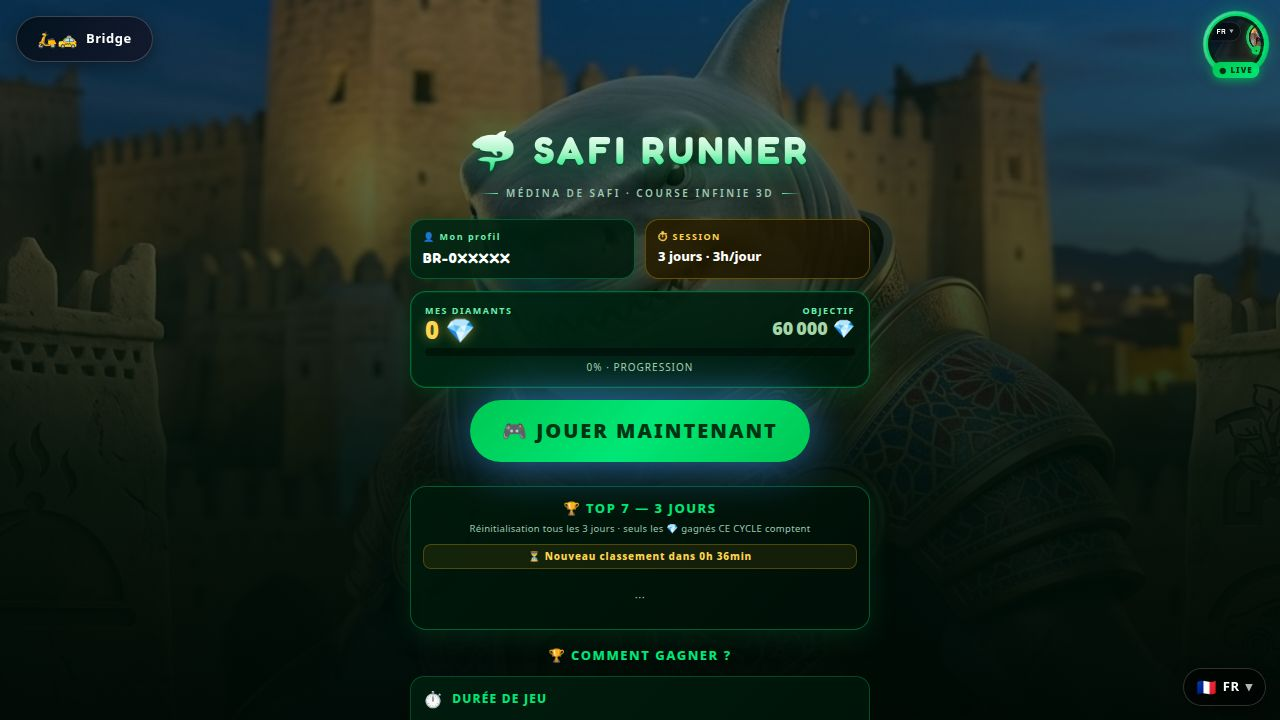
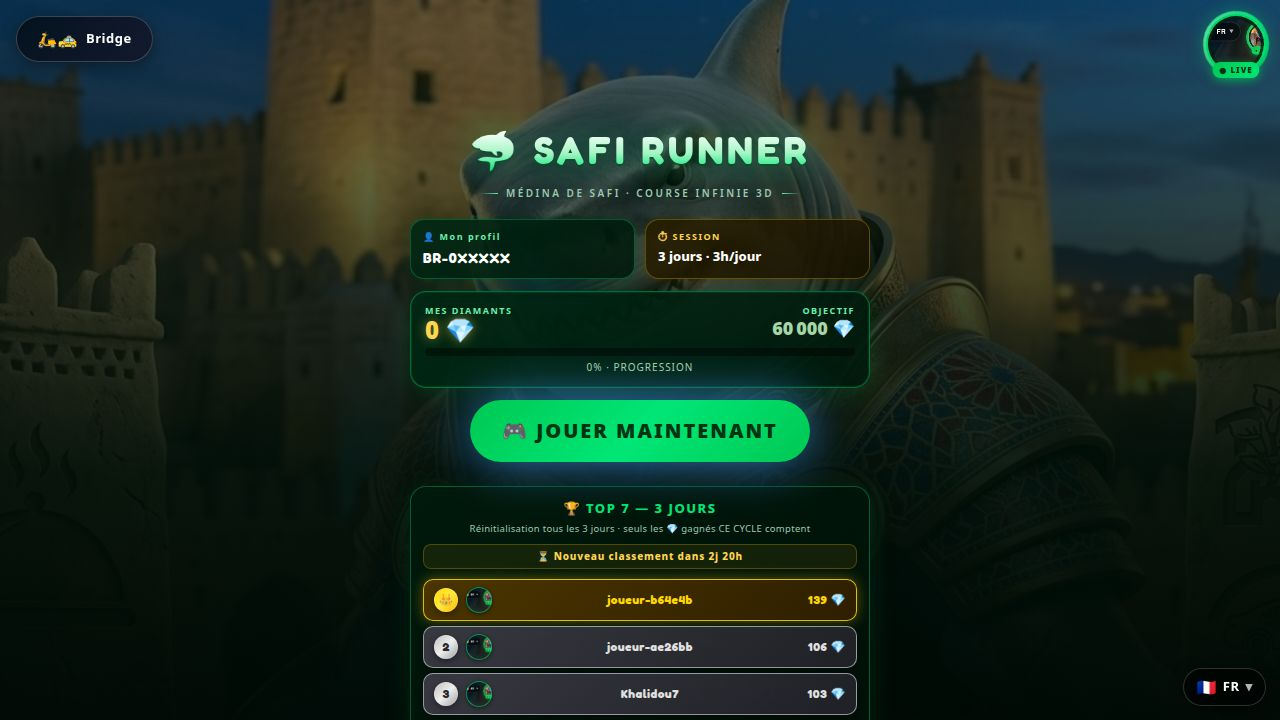
Add error handling and optimize 3D rendering for stability
Introduce a CanvasErrorBoundary component in Game.tsx to catch and display WebGL/R3F errors gracefully, and simplify the Champignon obstacle model in Obstacles.tsx for improved performance and compatibility. Also adjusts device pixel ratio and WebGL context creation settings to prevent crashes on devices with software rendering.

Replit-Commit-Author: Agent
Replit-Commit-Session-Id: 6561ac08-ca0f-453b-919e-0df1260e3bb4
Replit-Commit-Checkpoint-Type: full_checkpoint
Replit-Commit-Event-Id: 2db16445-f72d-4144-bfb4-ad6c785d57f4
Replit-Commit-Screenshot-Url: https://storage.googleapis.com/screenshot-production-us-central1/de74e39f-30c2-4a4e-81c6-35b38d5328e6/6561ac08-ca0f-453b-919e-0df1260e3bb4/2QFZL6C
Replit-Helium-Checkpoint-Created: true

Changed region(s): [[0.3125, 0.7639, 0.6875, 1.0]]

diff --git a/artifacts/3d-game/src/game/components/Obstacles.tsx b/artifacts/3d-game/src/game/components/Obstacles.tsx
@@ -7,43 +7,29 @@ const LANE_X = [-2, 0, 2];
 
 /* ─────────────────────────────────────────────────────────────
    CHAMPIGNON GÉANT — obstacle principal
-   Chapeau rouge à pois blancs, pied crème, spores dorées
+   Chapeau rouge à pois blancs, pied crème
    ───────────────────────────────────────────────────────────── */
 function Champignon({ x, z }: { x: number; z: number }) {
-  const capRef = useRef<THREE.Mesh>(null);
+  const capRef  = useRef<THREE.Mesh>(null);
   const glowRef = useRef<THREE.Mesh>(null);
-  const spore1Ref = useRef<THREE.Mesh>(null);
-  const spore2Ref = useRef<THREE.Mesh>(null);
 
   useFrame(() => {
     const t = Date.now() * 0.002;
     if (capRef.current) {
-      capRef.current.position.y = 1.1 + Math.sin(t * 1.2) * 0.04;
+      capRef.current.position.y = 1.35 + Math.sin(t * 1.2) * 0.04;
     }
     if (glowRef.current) {
       const mat = glowRef.current.material as THREE.MeshBasicMaterial;
-      mat.opacity = 0.12 + Math.sin(t * 0.8) * 0.06;
-    }
-    if (spore1Ref.current) {
-      spore1Ref.current.position.y = 1.9 + Math.sin(t + 0.5) * 0.15;
-      spore1Ref.current.position.x = x + Math.cos(t * 0.9) * 0.18;
-      const mat = spore1Ref.current.material as THREE.MeshBasicMaterial;
-      mat.opacity = 0.5 + Math.sin(t * 1.5) * 0.3;
-    }
-    if (spore2Ref.current) {
-      spore2Ref.current.position.y = 2.05 + Math.sin(t * 1.3 + 1.2) * 0.12;
-      spore2Ref.current.position.x = x + Math.cos(t * 1.1 + 2) * 0.22;
-      const mat = spore2Ref.current.material as THREE.MeshBasicMaterial;
-      mat.opacity = 0.4 + Math.sin(t * 1.1) * 0.25;
+      mat.opacity = 0.14 + Math.sin(t * 0.8) * 0.06;
     }
   });
 
   return (
     <group position={[x, 0, z]}>
-      {/* Sol — cercle de mousse verte */}
-      <mesh position={[0, 0.02, 0]} rotation={[-Math.PI / 2, 0, 0]}>
-        <circleGeometry args={[1.1, 20]} />
-        <meshBasicMaterial color="#1e8449" transparent opacity={0.5} blending={THREE.AdditiveBlending} toneMapped={false} />
+      {/* Halo violet magique au sol */}
+      <mesh ref={glowRef} position={[0, 0.03, 0]} rotation={[-Math.PI / 2, 0, 0]}>
+        <planeGeometry args={[2.4, 2.4]} />
+        <meshBasicMaterial color="#9b59b6" transparent opacity={0.14} blending={THREE.AdditiveBlending} toneMapped={false} />
       </mesh>
 
       {/* Pied du champignon — cylindre crème */}
@@ -58,66 +44,48 @@ function Champignon({ x, z }: { x: number; z: number }) {
         <meshBasicMaterial color="#d5c9a1" toneMapped={false} />
       </mesh>
 
-      {/* Chapeau principal — demi-sphère rouge vif */}
-      <mesh ref={capRef} position={[0, 1.1, 0]}>
-        <sphereGeometry args={[0.92, 20, 16, 0, Math.PI * 2, 0, Math.PI / 2]} />
-        <meshBasicMaterial color="#e74c3c" toneMapped={false} side={THREE.DoubleSide} />
+      {/* Chapeau principal — sphère rouge aplatie */}
+      <mesh ref={capRef} position={[0, 1.35, 0]} scale={[1, 0.6, 1]}>
+        <sphereGeometry args={[0.95, 20, 14]} />
+        <meshBasicMaterial color="#e74c3c" toneMapped={false} />
       </mesh>
 
-      {/* Bord inférieur du chapeau (frange) */}
-      <mesh position={[0, 1.1, 0]}>
-        <torusGeometry args={[0.92, 0.06, 8, 22]} />
+      {/* Bord inférieur du chapeau */}
+      <mesh position={[0, 1.08, 0]}>
+        <torusGeometry args={[0.92, 0.07, 8, 22]} />
         <meshBasicMaterial color="#c0392b" toneMapped={false} />
       </mesh>
 
-      {/* Pois blancs sur le chapeau — 7 spots */}
-      <mesh position={[0, 1.92, 0]}>
-        <sphereGeometry args={[0.14, 10, 10]} />
+      {/* Pois blancs sur le chapeau */}
+      <mesh position={[0, 1.85, 0]}>
+        <sphereGeometry args={[0.13, 10, 10]} />
         <meshBasicMaterial color="#fdfefe" toneMapped={false} />
       </mesh>
-      <mesh position={[0.5, 1.75, 0.4]}>
-        <sphereGeometry args={[0.11, 10, 10]} />
+      <mesh position={[0.5, 1.6, 0.35]}>
+        <sphereGeometry args={[0.10, 10, 10]} />
         <meshBasicMaterial color="#fdfefe" toneMapped={false} />
       </mesh>
-      <mesh position={[-0.52, 1.72, 0.32]}>
-        <sphereGeometry args={[0.1, 10, 10]} />
+      <mesh position={[-0.5, 1.58, 0.28]}>
+        <sphereGeometry args={[0.10, 10, 10]} />
         <meshBasicMaterial color="#fdfefe" toneMapped={false} />
       </mesh>
-      <mesh position={[0.42, 1.73, -0.45]}>
-        <sphereGeometry args={[0.11, 10, 10]} />
+      <mesh position={[0.4, 1.58, -0.42]}>
+        <sphereGeometry args={[0.10, 10, 10]} />
         <meshBasicMaterial color="#fdfefe" toneMapped={false} />
       </mesh>
-      <mesh position={[-0.44, 1.70, -0.42]}>
-        <sphereGeometry args={[0.1, 10, 10]} />
-        <meshBasicMaterial color="#fdfefe" toneMapped={false} />
-      </mesh>
-      <mesh position={[0.08, 1.59, 0.82]}>
+      <mesh position={[-0.42, 1.56, -0.38]}>
         <sphereGeometry args={[0.09, 10, 10]} />
         <meshBasicMaterial color="#fdfefe" toneMapped={false} />
       </mesh>
-      <mesh position={[-0.1, 1.58, -0.84]}>
+      <mesh position={[0.06, 1.42, 0.88]}>
         <sphereGeometry args={[0.09, 10, 10]} />
         <meshBasicMaterial color="#fdfefe" toneMapped={false} />
       </mesh>
 
-      {/* Spores flottantes dorées */}
-      <mesh ref={spore1Ref} position={[x + 0.18, 1.9, z]}>
-        <sphereGeometry args={[0.055, 7, 7]} />
-        <meshBasicMaterial color="#f9e79f" transparent opacity={0.7} blending={THREE.AdditiveBlending} toneMapped={false} />
-      </mesh>
-      <mesh ref={spore2Ref} position={[x - 0.22, 2.05, z]}>
-        <sphereGeometry args={[0.045, 7, 7]} />
-        <meshBasicMaterial color="#f7dc6f" transparent opacity={0.55} blending={THREE.AdditiveBlending} toneMapped={false} />
-      </mesh>
-      <mesh position={[0.3, 1.65, 0.1]}>
-        <sphereGeometry args={[0.035, 6, 6]} />
-        <meshBasicMaterial color="#f9e79f" transparent opacity={0.4} blending={THREE.AdditiveBlending} toneMapped={false} />
-      </mesh>
-
-      {/* Halo violet magique au sol */}
-      <mesh ref={glowRef} position={[0, 0.03, 0]} rotation={[-Math.PI / 2, 0, 0]}>
-        <planeGeometry args={[2.4, 2.4]} />
-        <meshBasicMaterial color="#9b59b6" transparent opacity={0.15} blending={THREE.AdditiveBlending} toneMapped={false} />
+      {/* Halo rouge sur le chapeau */}
+      <mesh position={[0, 1.35, 0]}>
+        <sphereGeometry args={[1.05, 10, 10]} />
+        <meshBasicMaterial color="#ff1744" transparent opacity={0.06} blending={THREE.AdditiveBlending} toneMapped={false} />
       </mesh>
     </group>
   );

diff --git a/artifacts/3d-game/src/game/Game.tsx b/artifacts/3d-game/src/game/Game.tsx
@@ -1,8 +1,54 @@
-import { useRef, useCallback, useEffect } from "react";
+import { useRef, useCallback, useEffect, Component } from "react";
+import type { ErrorInfo, ReactNode } from "react";
 import { Canvas, useFrame, useThree } from "@react-three/fiber";
 import { KeyboardControls, useKeyboardControls } from "@react-three/drei";
 import * as THREE from "three";
 import { useGameState } from "./useGameState";
+
+/* ── ErrorBoundary — isole les crashs WebGL/R3F du reste de l'appli ── */
+class CanvasErrorBoundary extends Component<
+  { children: ReactNode; onError?: (err: Error) => void },
+  { error: Error | null }
+> {
+  state = { error: null };
+  static getDerivedStateFromError(error: Error) { return { error }; }
+  componentDidCatch(error: Error, info: ErrorInfo) {
+    console.error("[CanvasErrorBoundary]", error, info);
+    this.props.onError?.(error);
+  }
+  render() {
+    if (this.state.error) {
+      return (
+        <div style={{
+          position: "absolute", inset: 0, display: "flex",
+          flexDirection: "column", alignItems: "center", justifyContent: "center",
+          background: "#0a0822", color: "#fff", padding: 32, textAlign: "center",
+        }}>
+          <div style={{ fontSize: 48, marginBottom: 16 }}>⚠️</div>
+          <div style={{ fontSize: 20, fontWeight: 700, marginBottom: 8 }}>
+            Erreur de rendu 3D
+          </div>
+          <div style={{ fontSize: 13, color: "#aaa", marginBottom: 24, maxWidth: 340 }}>
+            WebGL non disponible ou ressources insuffisantes.<br />
+            Essaie de recharger la page ou libère des onglets.
+          </div>
+          <button
+            onClick={() => window.location.reload()}
+            style={{
+              padding: "12px 28px", borderRadius: 30,
+              background: "linear-gradient(135deg,#1565c0,#42a5f5)",
+              color: "#fff", border: "none", fontWeight: 700,
+              fontSize: 15, cursor: "pointer",
+            }}
+          >
+            🔄 Recharger
+          </button>
+        </div>
+      );
+    }
+    return this.props.children;
+  }
+}
 import { SharkPlayer } from "./components/SharkPlayer";
 import { Track } from "./components/Track";
 import { Obstacles } from "./components/Obstacles";
@@ -243,17 +289,19 @@ export function Game() {
           pointerEvents: "none",
         }} />
       )}
-      <KeyboardControls map={keyMap}>
-        <Canvas
-          flat
-          camera={{ fov: 68, near: 0.1, far: 200, position: [0, 3.8, 7] }}
-          style={{ width: "100%", height: "100%" }}
-          dpr={[1, 2]}
-          gl={{ antialias: false, alpha: false, powerPreference: "high-performance" }}
-        >
-          <GameScene state={state} tick={tick} changeLane={changeLaneWithSfx} jump={jumpWithSfx} boost={boostWithSfx} startGame={startGame} resumeGame={resumeGame} activateBoost={activateBoost} />
-        </Canvas>
-      </KeyboardControls>
+      <CanvasErrorBoundary>
+        <KeyboardControls map={keyMap}>
+          <Canvas
+            flat
+            camera={{ fov: 68, near: 0.1, far: 200, position: [0, 3.8, 7] }}
+            style={{ width: "100%", height: "100%" }}
+            dpr={[1, 1.5]}
+            gl={{ antialias: false, alpha: false, powerPreference: "high-performance", failIfMajorPerformanceCaveat: false }}
+          >
+            <GameScene state={state} tick={tick} changeLane={changeLaneWithSfx} jump={jumpWithSfx} boost={boostWithSfx} startGame={startGame} resumeGame={resumeGame} activateBoost={activateBoost} />
+          </Canvas>
+        </KeyboardControls>
+      </CanvasErrorBoundary>
 
       {/* HUD + Contrôles tactiles */}
       <GameUI